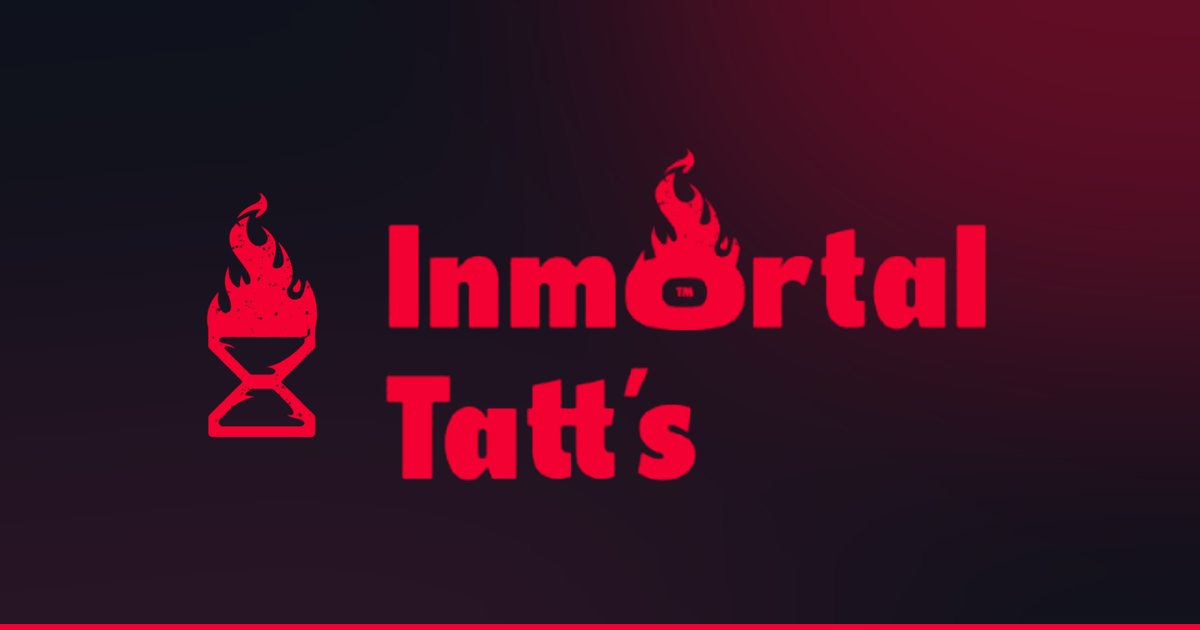
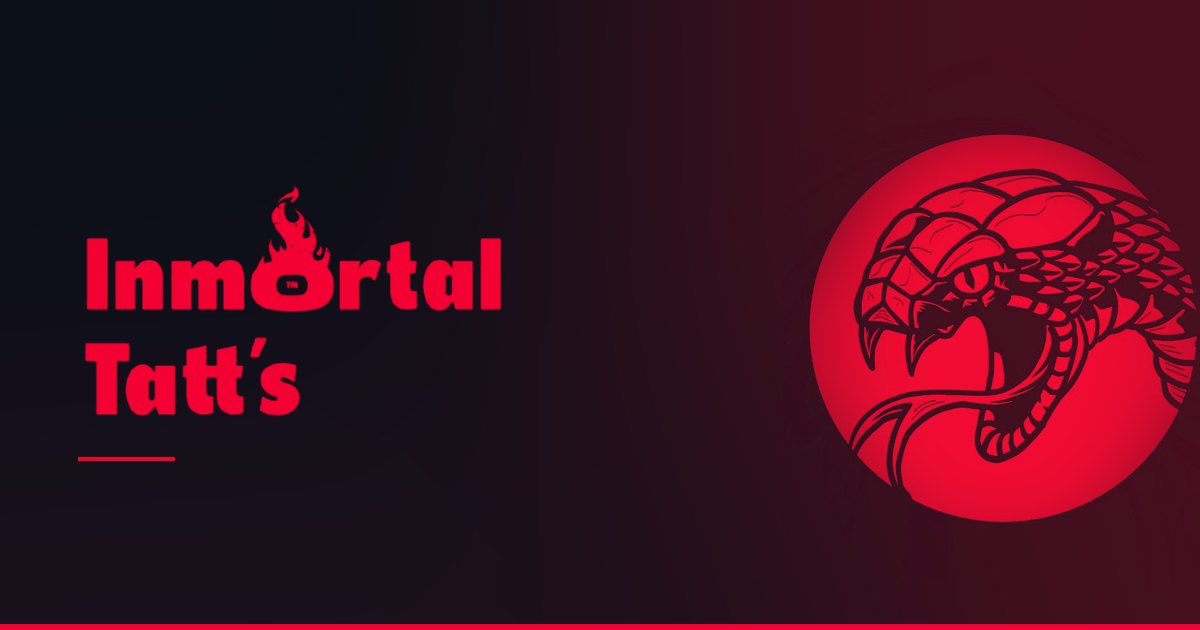
Usar la ilustración de la serpiente en la vista previa social
La tarjeta de enlace (Open Graph / Twitter) se compone ahora con la
serpiente a la derecha, fundida con "lighten" sobre el azul-negro para
que su fondo desaparezca y sólo quede la tinta, y la marca denominativa
a la izquierda. Se actualiza también el texto alternativo.

Claude-Session: https://claude.ai/code/session_01Ju9cYfEAYKeWgqauTvg7zP

diff --git a/index.html b/index.html
@@ -20,7 +20,7 @@
 <meta property="og:image" content="https://inmortaltatts.com/assets/img/og-image.jpg">
 <meta property="og:image:width" content="1200">
 <meta property="og:image:height" content="630">
-<meta property="og:image:alt" content="Logo de Inmortal Tatts junto al símbolo de llama y reloj de arena sobre fondo azul negro.">
+<meta property="og:image:alt" content="Ilustración de serpiente sobre círculo rojo junto al logotipo de Inmortal Tatts, sobre fondo azul negro.">
 <meta name="twitter:card" content="summary_large_image">
 <meta name="twitter:title" content="Inmortal Tatts | Black Work Tattoo">
 <meta name="twitter:description" content="Estudio de tatuaje de autor especializado en Black Work. Ink that outlives time.">

diff --git a/tools/build_assets.py b/tools/build_assets.py
@@ -12,7 +12,7 @@ Uso: python3 tools/build_assets.py
 """
 from pathlib import Path
 
-from PIL import Image, ImageDraw, ImageFilter
+from PIL import Image, ImageChops, ImageDraw, ImageFilter
 import numpy as np
 
 ROOT = Path(__file__).resolve().parent.parent
@@ -131,36 +131,54 @@ def build_grain():
 
 
 def build_social(word):
-    """Open Graph 1200x630 y favicons, compuestos con los assets de marca."""
+    """Open Graph 1200x630 y favicons.
+
+    La tarjeta de enlace usa la ilustración de la serpiente a sangre: es el
+    recurso que mejor identifica a la marca en un feed. Encima, un degradado
+    hacia el azul-negro y la marca denominativa.
+    """
     print("social / favicon:")
     W, H = 1200, 630
+
+    # Fondo: azul-negro con luz roja y base borgoña (la misma del hero).
     base = Image.new("RGB", (W, H), DEEP_BG)
     glow = Image.new("RGB", (W, H), DEEP_BG)
-    d = ImageDraw.Draw(glow)
-    # Halo rojo difuso arriba a la derecha + base borgona.
-    d.ellipse((W * 0.52, -H * 0.75, W * 1.28, H * 0.55), fill=BRAND_RED)
-    d.ellipse((-W * 0.25, H * 0.45, W * 0.75, H * 1.85), fill=BURGUNDY)
-    glow = glow.filter(ImageFilter.GaussianBlur(150))
-    base = Image.blend(base, glow, 0.5)
-    base = Image.blend(base, Image.new("RGB", (W, H), PRIMARY_BG), 0.28)
+    dg = ImageDraw.Draw(glow)
+    dg.ellipse((W * 0.52, -H * 0.45, W * 1.30, H * 1.05), fill=BRAND_RED)
+    dg.ellipse((-W * 0.20, H * 0.60, W * 0.65, H * 1.95), fill=BURGUNDY)
+    glow = glow.filter(ImageFilter.GaussianBlur(170))
+    base = Image.blend(base, glow, 0.26)
 
-    mark = Image.open(OUT / "mark.png")
-    mh = 250
-    mark_r = mark.resize((round(mark.width * mh / mark.height), mh), Image.LANCZOS)
-    logo_w = 620
+    # La serpiente entra por la derecha. Su fondo es el mismo azul-negro del
+    # lienzo, así que se funde con "lighten": sólo queda la tinta.
+    snake = Image.open(SRC / "snake.jpg").convert("RGB")
+    sh = int(H * 1.16)
+    sw = round(snake.width * sh / snake.height)
+    art = snake.resize((sw, sh), Image.LANCZOS)
+
+    mask = Image.new("L", (sw, sh), 0)
+    dm = ImageDraw.Draw(mask)
+    dm.ellipse((sw * 0.00, sh * 0.19, sw * 1.00, sh * 0.89), fill=255)
+    mask = mask.filter(ImageFilter.GaussianBlur(sw * 0.12))
+
+    layer = Image.new("RGB", (W, H), DEEP_BG)
+    layer.paste(art, (W - sw + 18, (H - sh) // 2), mask)
+    base = ImageChops.lighter(base, layer)
+
+    # Marca denominativa a la izquierda, con aire.
+    logo_w = 430
     logo_r = word.resize((logo_w, round(word.height * logo_w / word.width)), Image.LANCZOS)
-
-    total = mark_r.width + 56 + logo_r.width
-    x = (W - total) // 2
-    base.paste(mark_r, (x, (H - mark_r.height) // 2), mark_r)
-    base.paste(logo_r, (x + mark_r.width + 56, (H - logo_r.height) // 2), logo_r)
+    lx, ly = 78, (H - logo_r.height) // 2 - 14
+    base.paste(logo_r, (lx, ly), logo_r)
 
     d2 = ImageDraw.Draw(base)
+    d2.rectangle((lx, ly + logo_r.height + 34, lx + 96, ly + logo_r.height + 37), fill=BRAND_RED)
     d2.rectangle((0, H - 6, W, H), fill=BRAND_RED)
     base.save(OUT / "og-image.jpg", "JPEG", quality=86, optimize=True, progressive=True)
     print(f"  og-image.jpg  {W}x{H}")
 
     # Favicons: simbolo sobre fondo azul-negro.
+    mark = Image.open(OUT / "mark.png")
     for size, name in ((512, "favicon-512"), (180, "apple-touch-icon"), (32, "favicon-32")):
         pad = round(size * 0.16)
         canvas = Image.new("RGBA", (size, size), DEEP_BG + (255,))
